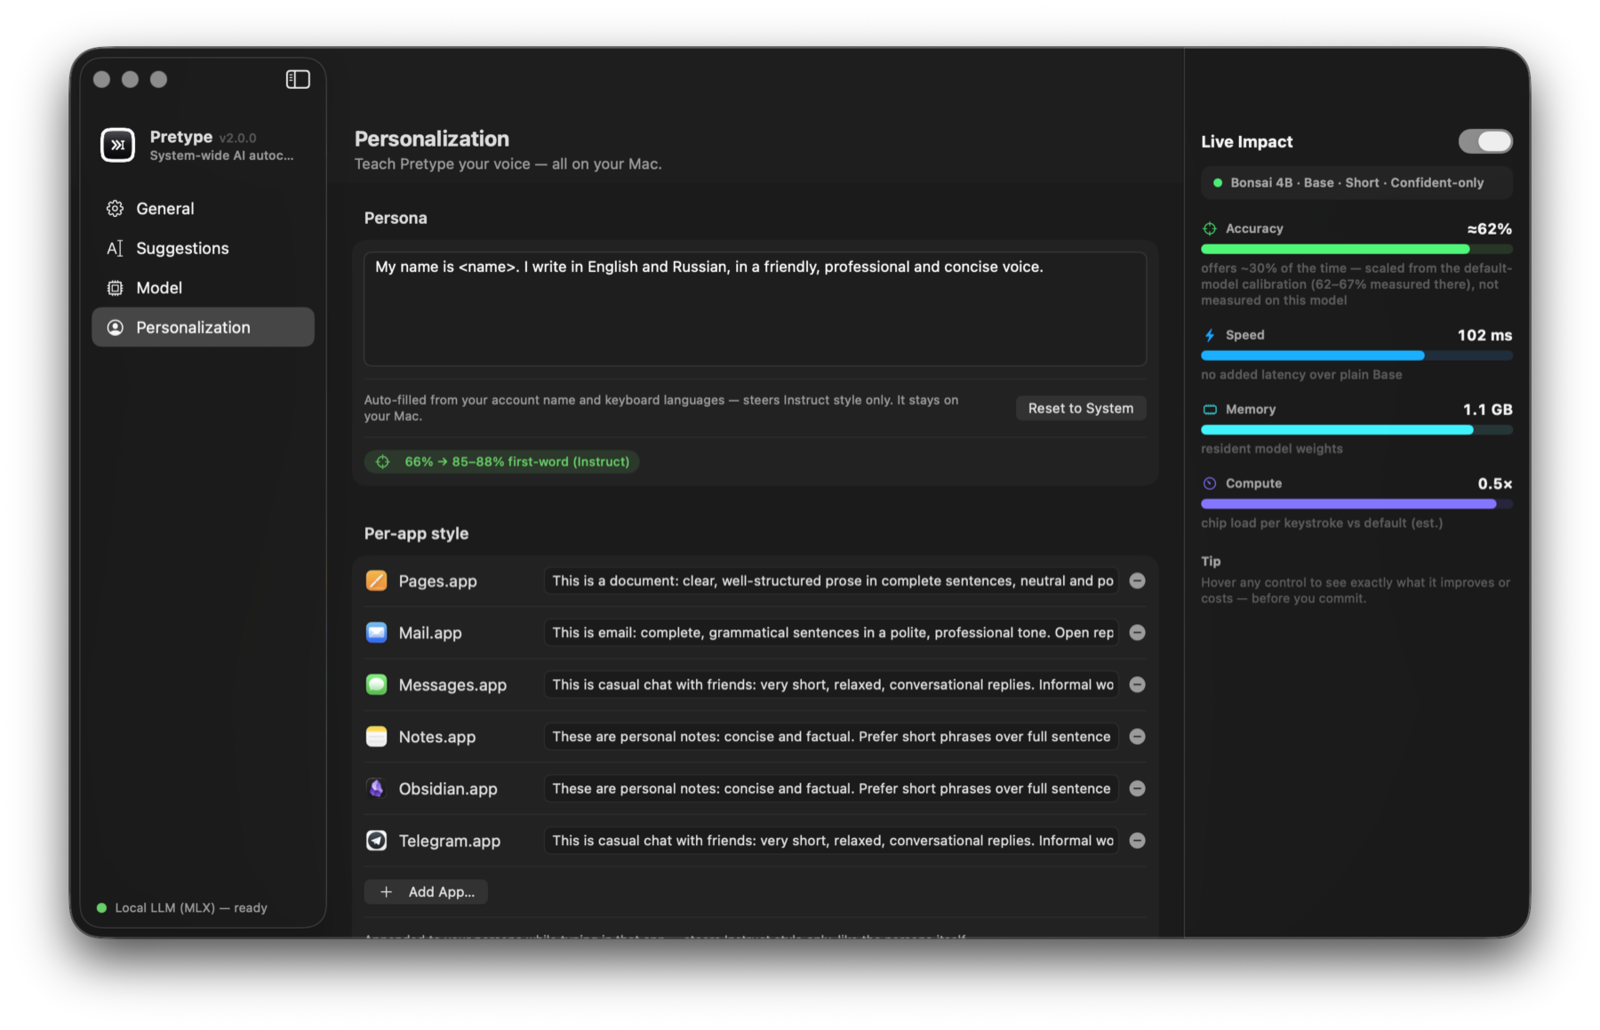
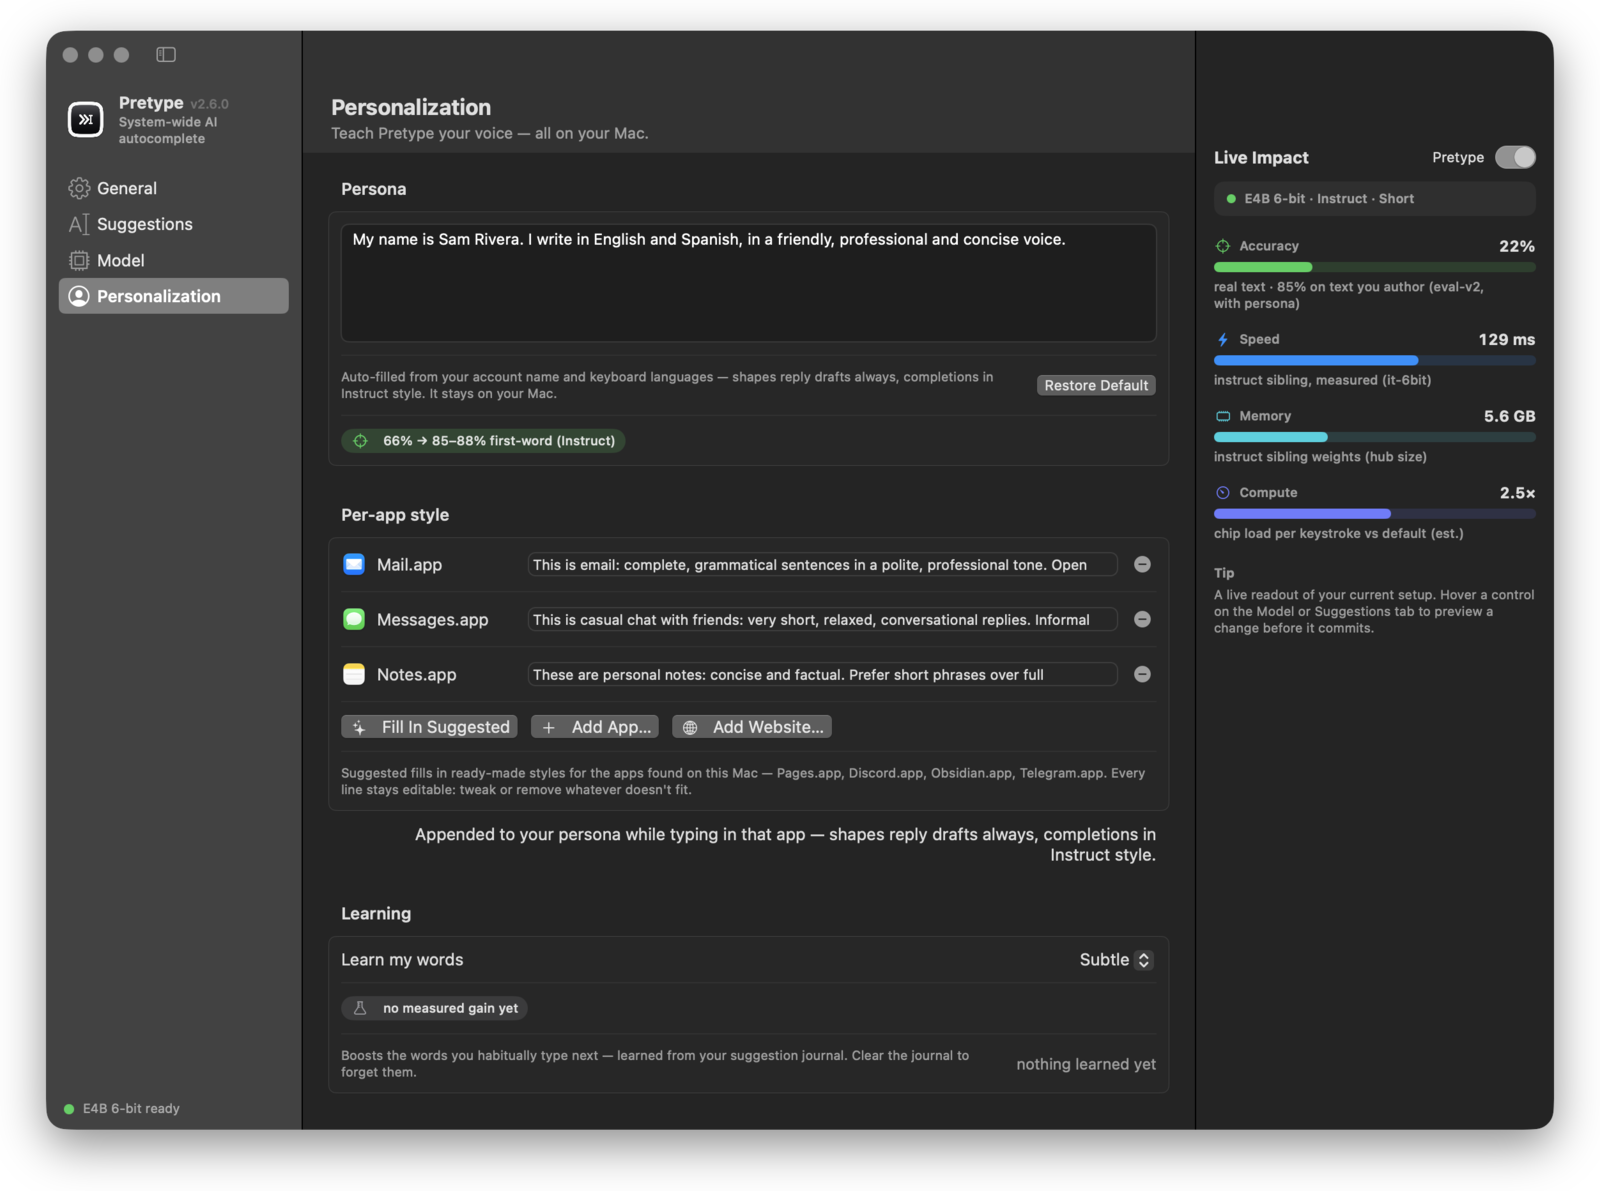
docs: re-shoot the Settings screenshots
The three README captures still showed v2.0.1: "8.6 GB" for E4B, the old
sidebar and Live Impact rail, no fix and reply chords on the model map.
They are captured from the current Settings window now, by the app
itself through ScreenCaptureKit's current-process content - its own
windows need no Screen Recording consent - so a re-shoot no longer
waits for someone to do it by hand. docs/README.md says how.

diff --git a/docs/models.md b/docs/models.md
@@ -25,7 +25,7 @@ The default used to be chosen from your keyboard layouts; since 2026-07-25 it is
 Language dropped out of the rule because no per-language gap between the small models survives the significance bar (MiniCPM5's English lead over Qwen3.5 is a trend at p=0.014, Russian a tie at p=0.79, Japanese p=0.064), while the chord measurements split hard against the old English/Russian default: MiniCPM5's fix is inert at 4%. It remains the manual pick for the lowest latency (49 ms); E4B 8-bit remains the manual best-quality pick (it ties 6-bit at p=0.052 for ≈1 GB more). Your keyboard languages still drive the persona and the per-language menu nudge, and everything else is one click in **Settings → Model**, where each entry ships its own eval-backed recommended settings and the catalog re-ranks for any of the 19 evaluated languages.
 
 <div align="center">
-<img src="shot-models.png" width="720" alt="Model tab: an interactive speed by accuracy map of the catalog with eval-backed presets and a ranked list" />
+<img src="shot-models.png" width="720" alt="Model tab: eval-backed presets and an interactive speed by accuracy map of the catalog" />
 <p><sub><i>The same data live in the app — a speed × accuracy map with one-click presets and a per-language accuracy axis.</i></sub></p>
 </div>
 

diff --git a/docs/README.md b/docs/README.md
@@ -52,9 +52,13 @@ and costs ~5× the file size on flat dark UI for no visible gain.
 
 ## Real captures — `shot-settings.png`, `shot-models.png`, `shot-personal.png`
 
-Live screenshots of the app's Settings window. **These need a GUI and cannot be
-regenerated headlessly** — re-shoot them by hand whenever the settings UI
-changes, or the README ships a picture of an app that no longer exists.
+Real captures of the app's Settings window — re-shoot them whenever the
+settings UI changes, or the README ships a picture of an app that no longer
+exists. The git-ignored `dev-tools/ui-shots/make-shots.sh` does it in one go:
+it builds HEAD with a small hook, opens the Settings window on its own (no
+engine, its own defaults domain, a made-up persona) and has the app capture
+its own window, which needs no Screen Recording permission. A window shows on
+screen for about 15 seconds while it runs.
 
 The suggestion overlay is a borderless agent (`LSUIElement`) window, so `⌘⇧4`
 and most capture apps filter it out. The system tool with an explicit region
